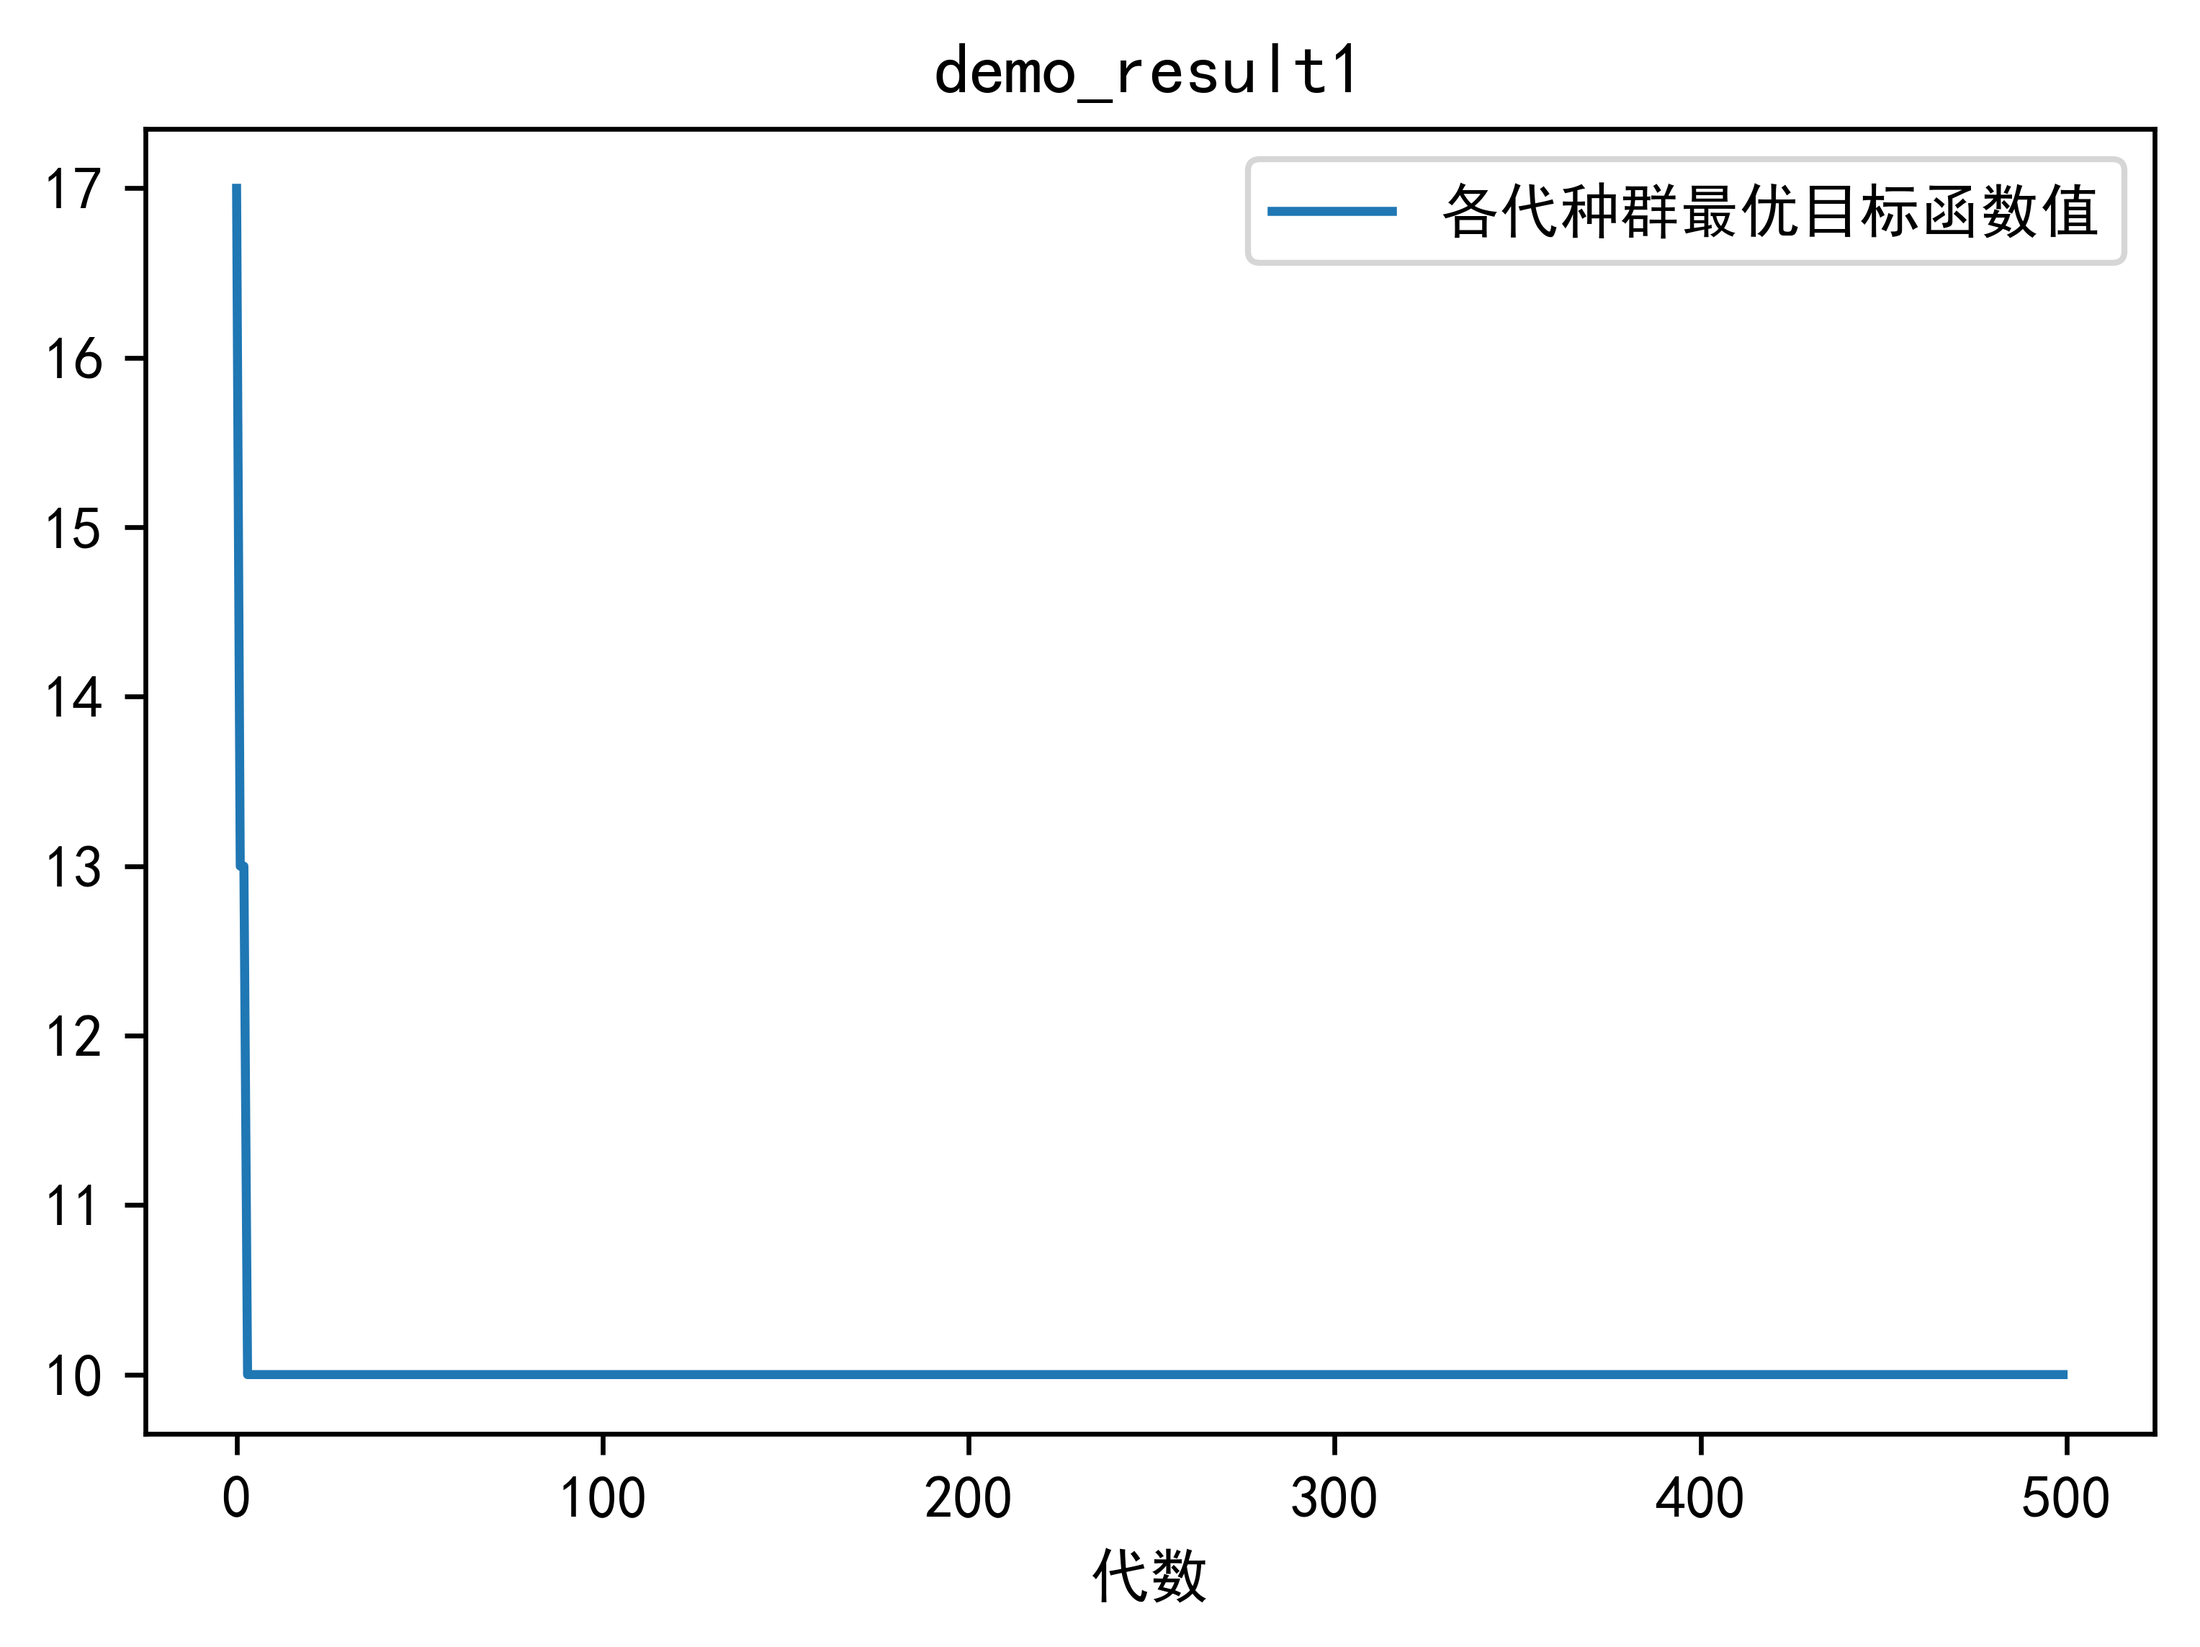
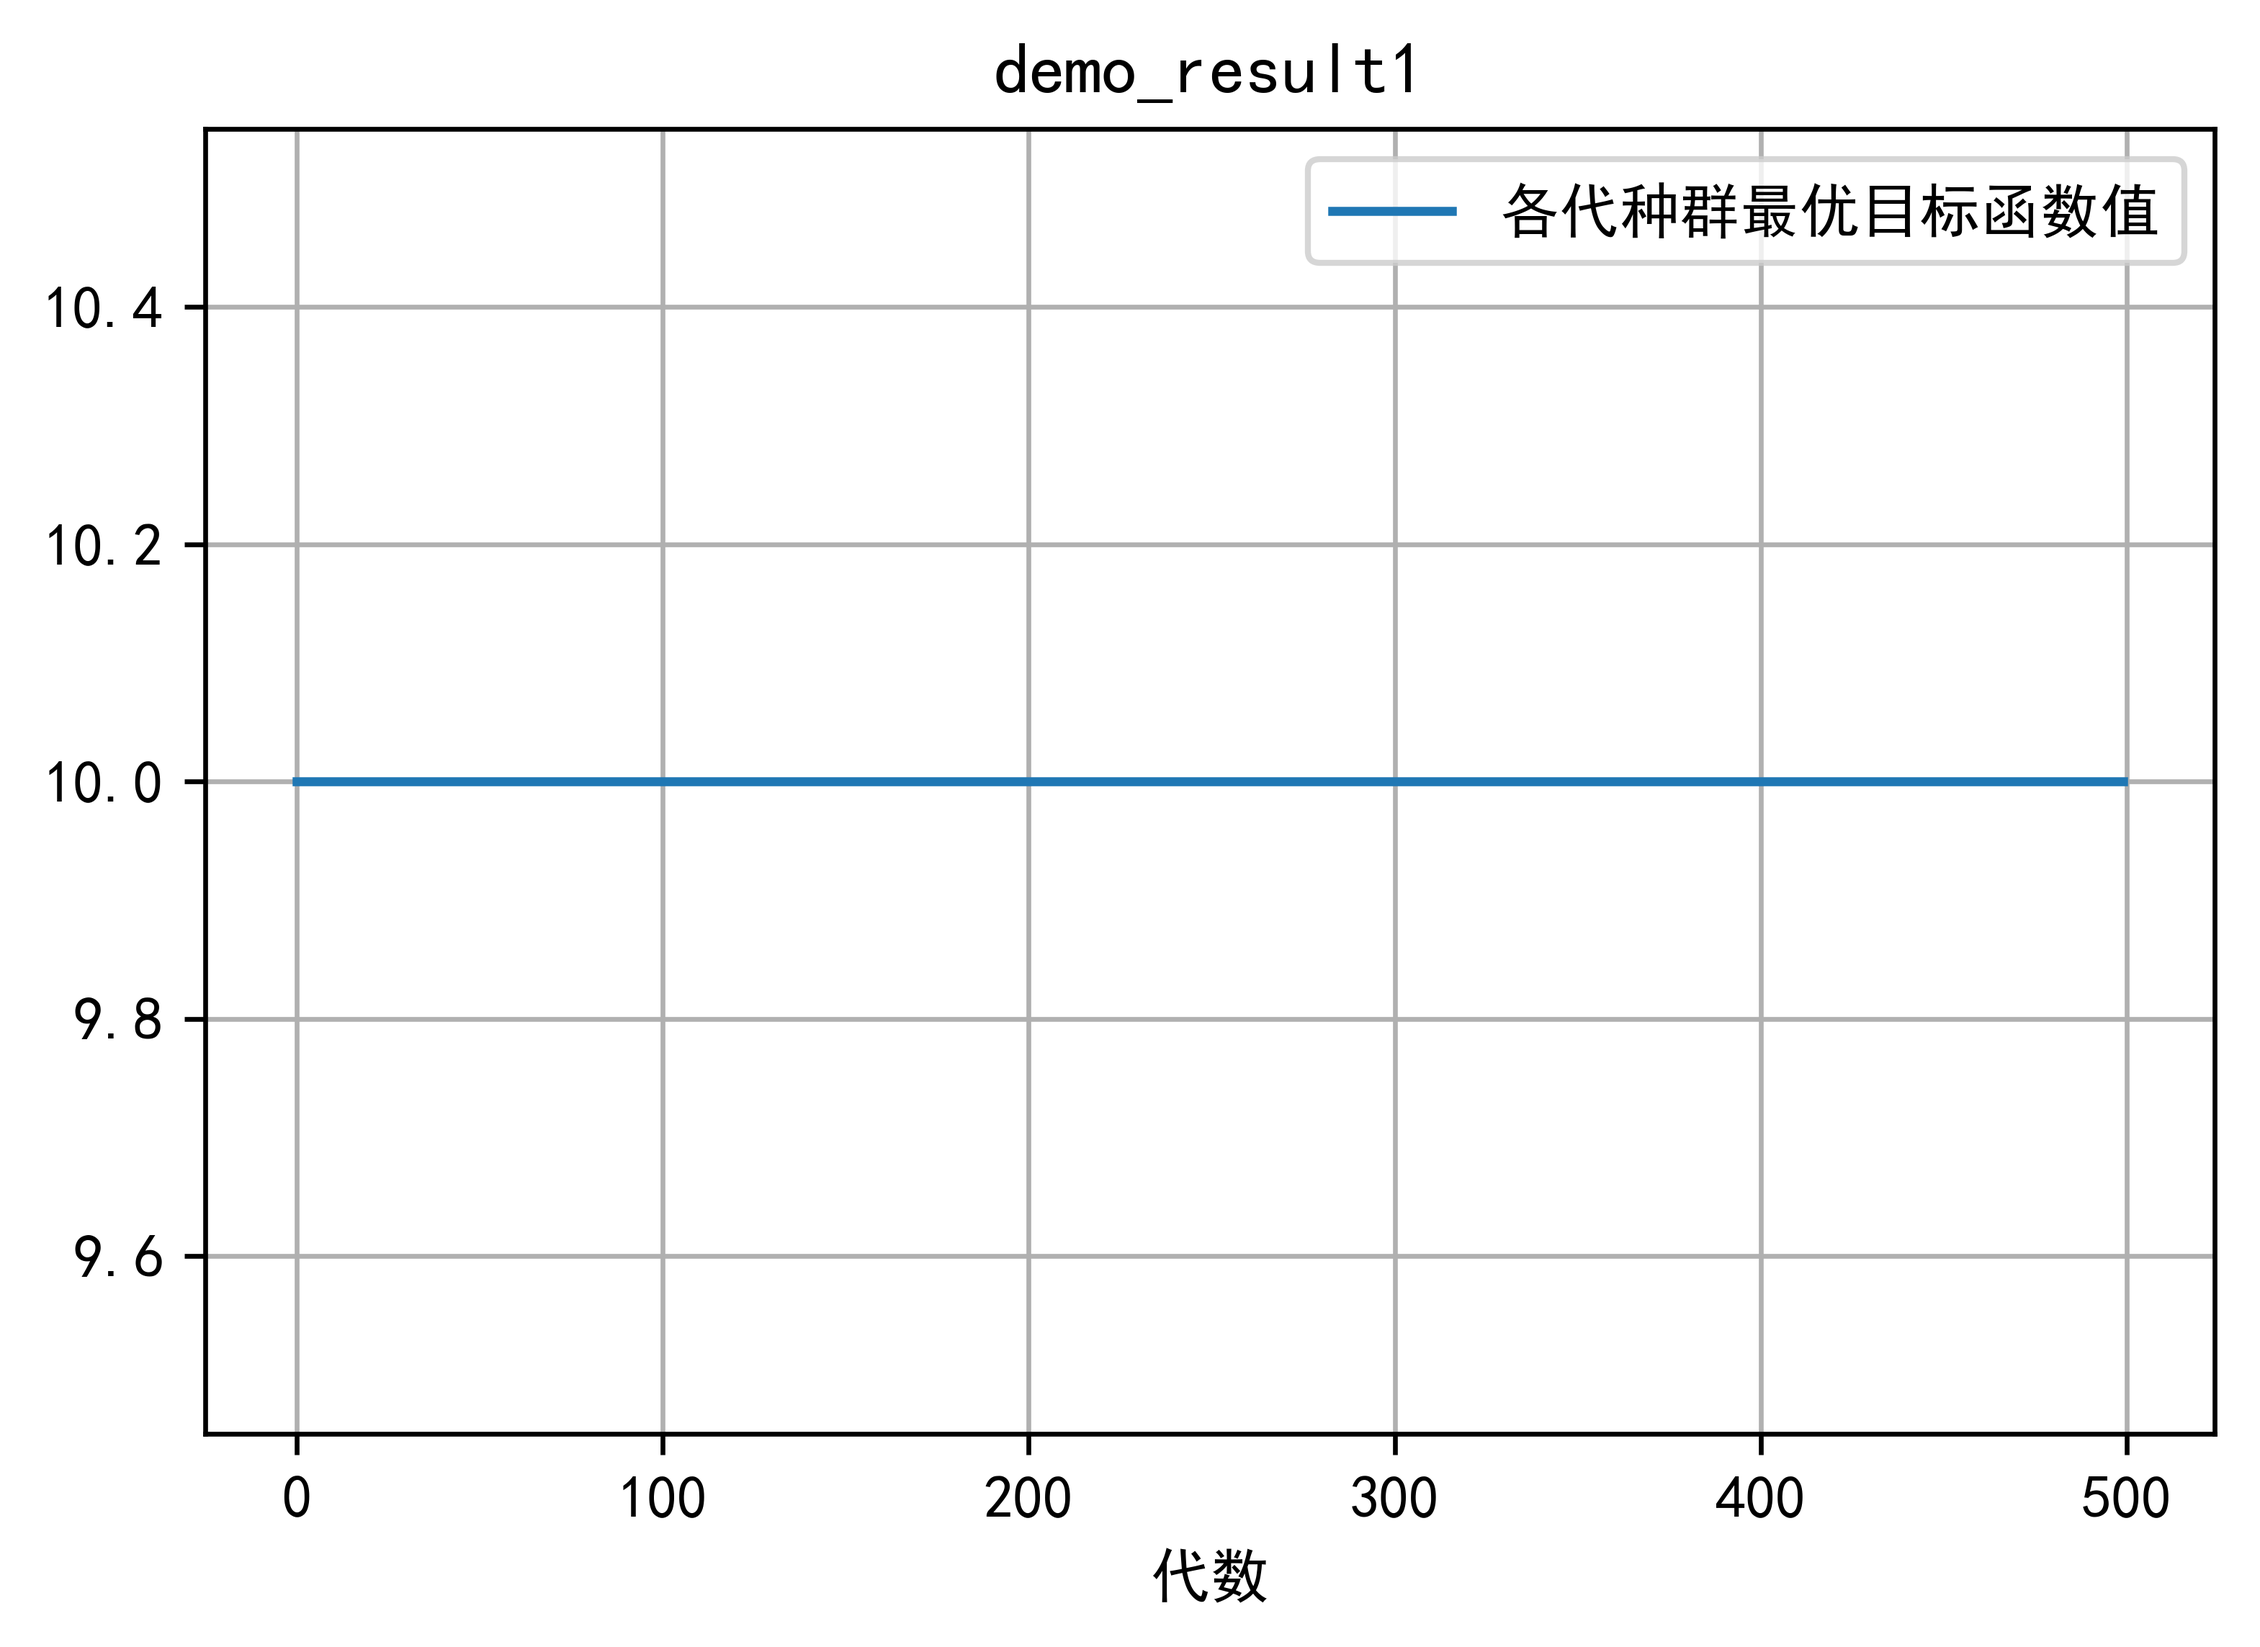
update v1.1.3

diff --git a/geatpy/demo/single_objective_demo1/mintemp1.py b/geatpy/demo/single_objective_demo1/mintemp1.py
@@ -46,9 +46,5 @@ def mintemp1(AIM_M, AIM_F, PUN_M, PUN_F, ranges, borders, MAXGEN, NIND, SUBPOP, 
         [Chrom,ObjV,LegV] = ga.reins(Chrom,SelCh,SUBPOP,1,1,FitnV,FitnVSel,ObjV,ObjVSel,
         LegV,LegVSel) #重插入
     end_time = time.time() # 结束计时
-    # 后处理进化记录器
-    delIdx = np.where(np.isnan(pop_trace))[0]
-    pop_trace = np.delete(pop_trace, delIdx, 0)
-    var_trace = np.delete(var_trace, delIdx, 0)
     # 返回进化记录器、变量记录器以及执行时间
     return [pop_trace, var_trace, end_time - start_time]
